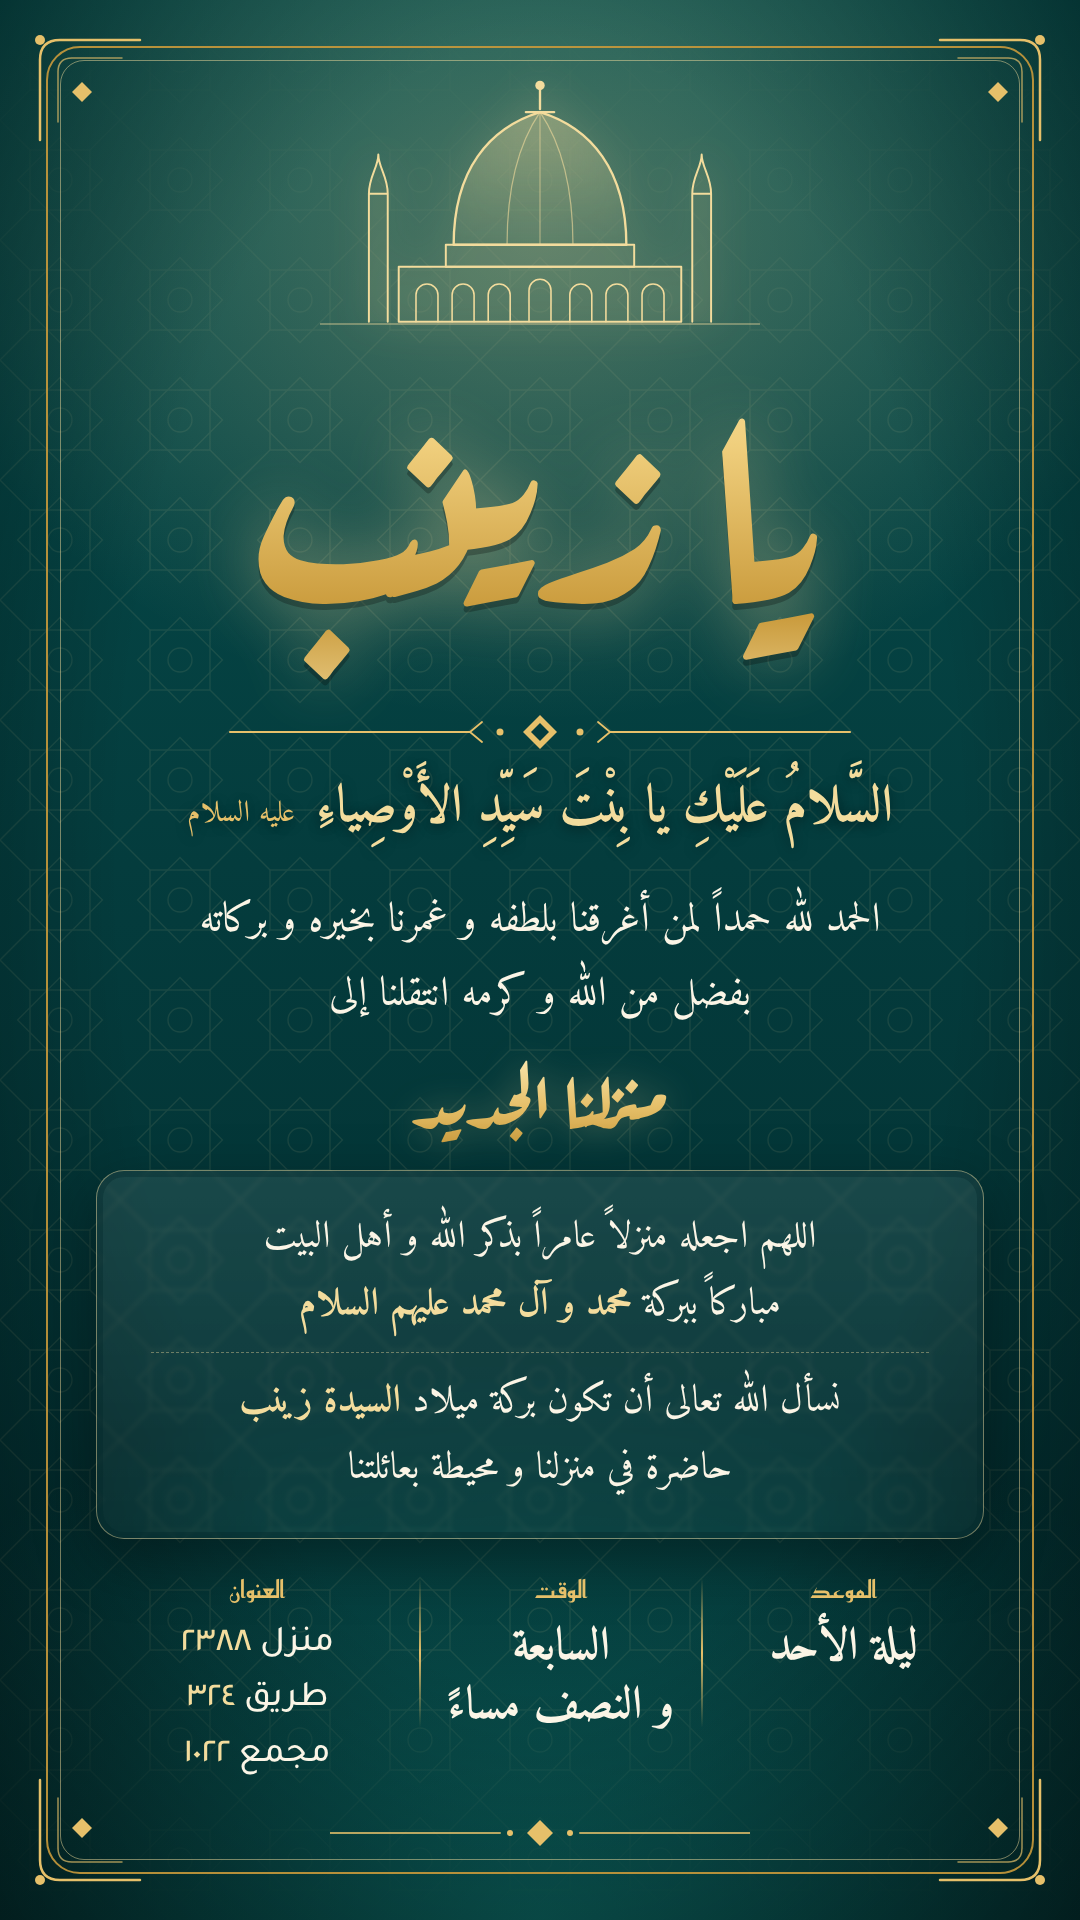
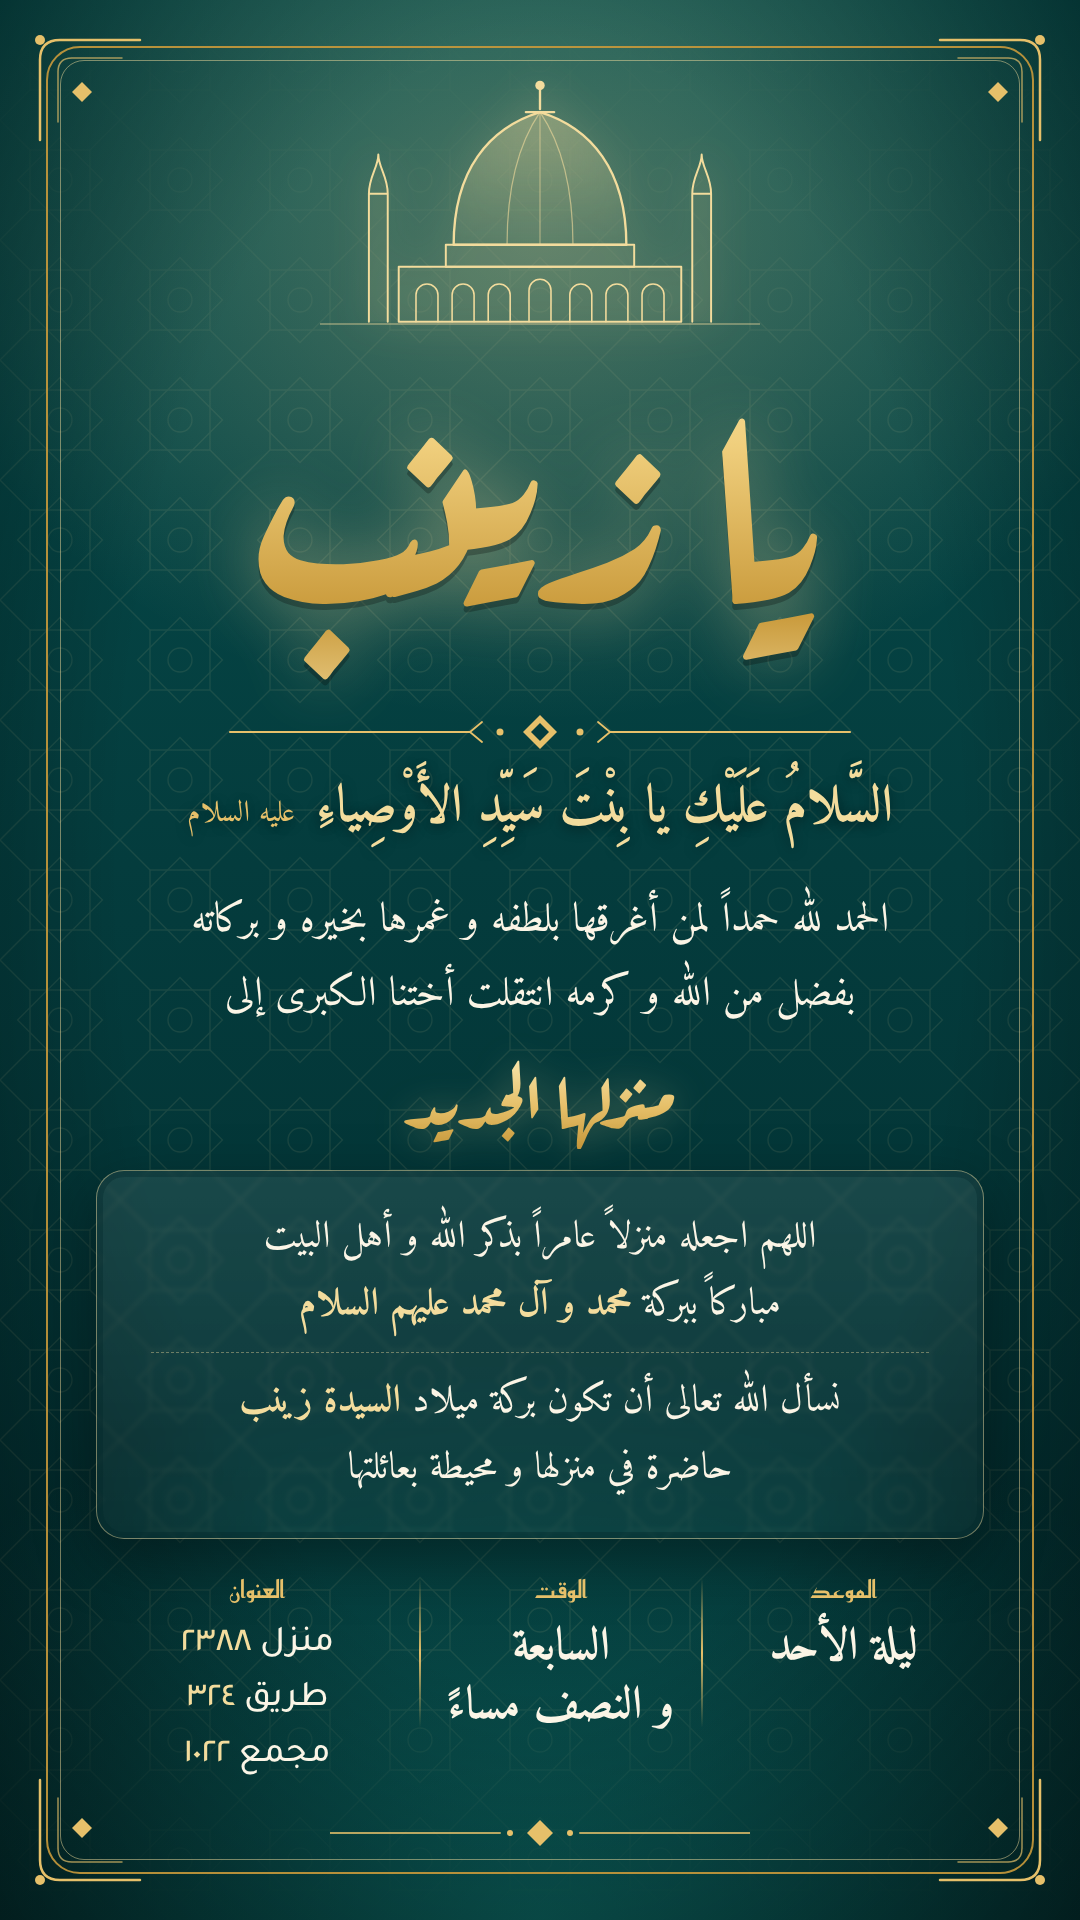
Invitation wording: older sister's new home
Claude-Session: https://claude.ai/code/session_01JiVQ2yTnojABN24swoi6ud

diff --git a/designs/housewarming-invite.html b/designs/housewarming-invite.html
@@ -159,14 +159,14 @@ html,body{width:1080px;height:1920px;background:#021f21}
   <div class="salam">السَّلامُ عَلَيْكِ يا بِنْتَ سَيِّدِ الأَوْصِياءِ <small>عليه السلام</small></div>
 
   <div class="intro">
-    الحمد لله حمداً لمن أغرقنا بلطفه و غمرنا بخيره و بركاته<br>
-    بفضل من الله و كرمه انتقلنا إلى<br>
-    <span class="hl">منزلنا الجديد</span>
+    الحمد لله حمداً لمن أغرقها بلطفه و غمرها بخيره و بركاته<br>
+    بفضل من الله و كرمه انتقلت أختنا الكبرى إلى<br>
+    <span class="hl">منزلها الجديد</span>
   </div>
 
   <div class="panel">
     <p>اللهم اجعله منزلاً عامراً بذكر الله و أهل البيت<br>مباركاً ببركة <b>محمد و آل محمد عليهم السلام</b></p>
-    <p>نسأل الله تعالى أن تكون بركة ميلاد <b>السيدة زينب</b><br>حاضرة في منزلنا و محيطة بعائلتنا</p>
+    <p>نسأل الله تعالى أن تكون بركة ميلاد <b>السيدة زينب</b><br>حاضرة في منزلها و محيطة بعائلتها</p>
   </div>
 
   <div class="details">
